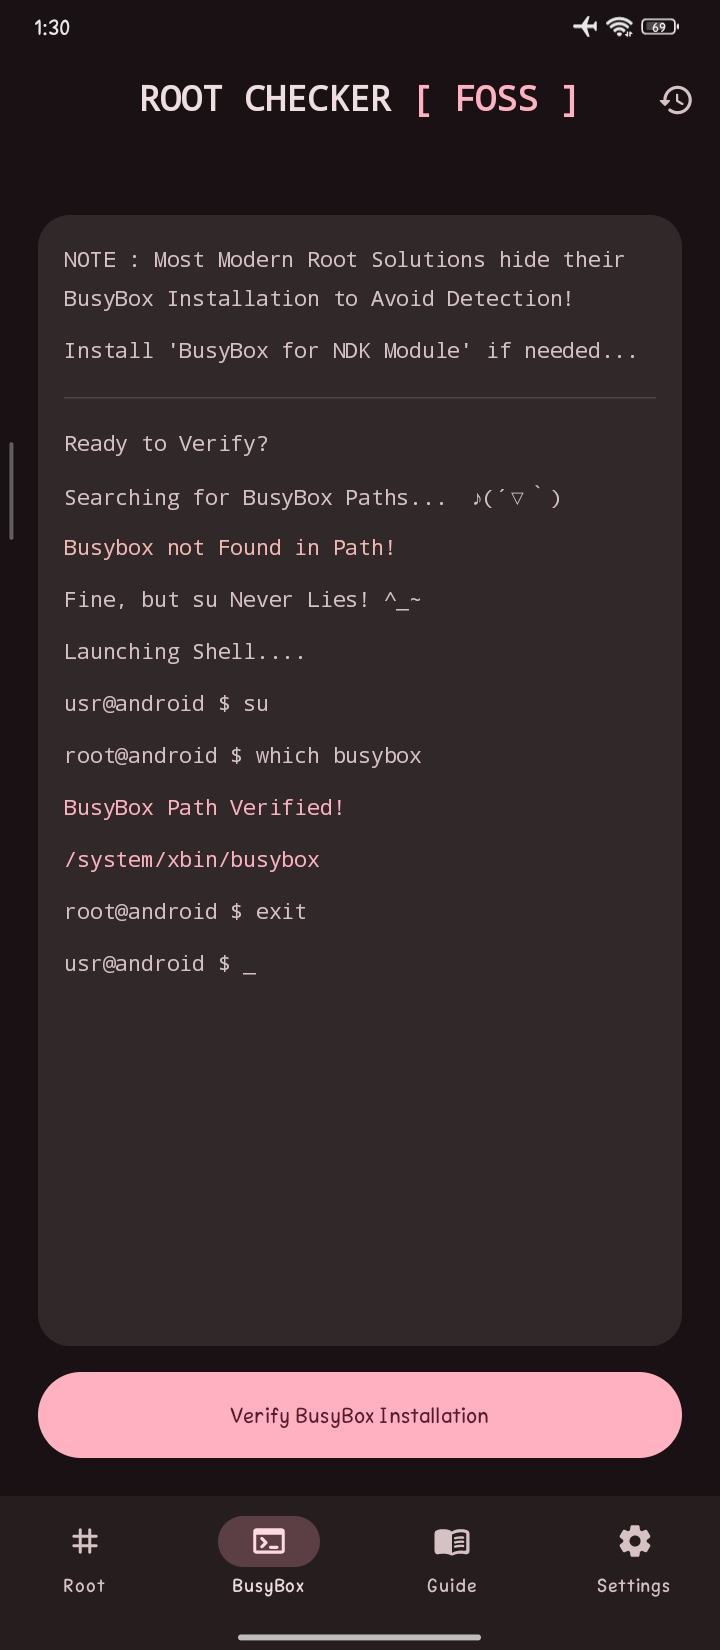
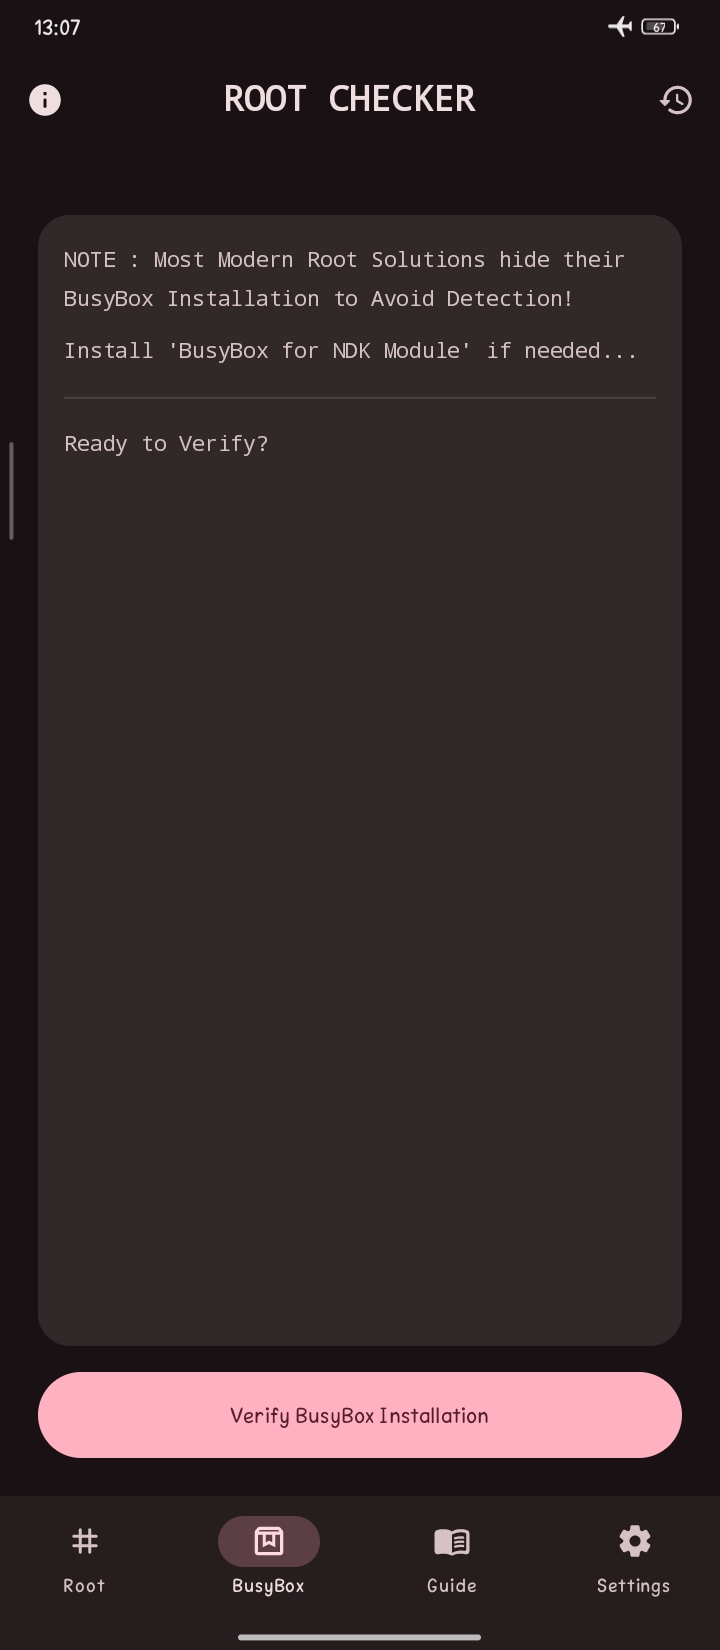
New Info Panel

diff --git a/app/src/main/java/foss/chillastro/root/checker/MainActivity.kt b/app/src/main/java/foss/chillastro/root/checker/MainActivity.kt
@@ -63,7 +63,9 @@ import androidx.compose.material.icons.automirrored.rounded.MenuBook
 import androidx.compose.material.icons.automirrored.rounded.OpenInNew
 import androidx.compose.material.icons.rounded.Animation
 import androidx.compose.material.icons.rounded.Brush
+import androidx.compose.material.icons.rounded.Cancel
 import androidx.compose.material.icons.rounded.Check
+import androidx.compose.material.icons.rounded.CheckCircle
 import androidx.compose.material.icons.rounded.Close
 import androidx.compose.material.icons.rounded.Code
 import androidx.compose.material.icons.rounded.Computer
@@ -76,8 +78,10 @@ import androidx.compose.material.icons.rounded.LockOpen
 import androidx.compose.material.icons.rounded.Memory
 import androidx.compose.material.icons.rounded.Palette
 import androidx.compose.material.icons.rounded.Refresh
+import androidx.compose.material.icons.rounded.ReportProblem
 import androidx.compose.material.icons.rounded.Settings
 import androidx.compose.material.icons.rounded.Tag
+import androidx.compose.material.icons.rounded.Verified
 import androidx.compose.material.icons.rounded.VisibilityOff
 import androidx.compose.material.icons.rounded.Warning
 import androidx.compose.material3.BasicAlertDialog
@@ -88,6 +92,7 @@ import androidx.compose.material3.CardDefaults
 import androidx.compose.material3.CenterAlignedTopAppBar
 import androidx.compose.material3.CircularProgressIndicator
 import androidx.compose.material3.DropdownMenuItem
+import androidx.compose.material3.ElevatedCard
 import androidx.compose.material3.ExperimentalMaterial3Api
 import androidx.compose.material3.ExposedDropdownMenuBox
 import androidx.compose.material3.ExposedDropdownMenuDefaults
@@ -233,6 +238,7 @@ fun CARootChecker( // CA stands for Chill-Astro who neither is an Astronaut nor 
 ) {
     var dest by rememberSaveable { mutableStateOf(AppDestinations.HOME) }
     var showHistorySheet by remember { mutableStateOf(false) }
+    var showInfoSheet by remember { mutableStateOf(false) }
     val context = LocalContext.current
     var logs by remember { mutableStateOf(getLogs(context)) }
     val refreshLogs = { logs = getLogs(context) }
@@ -243,13 +249,11 @@ fun CARootChecker( // CA stands for Chill-Astro who neither is an Astronaut nor 
             AppDestinations.entries.forEach { item ->
                 item(
                     icon = {
-                        // Logic to handle both Library Icons and your Custom Box XML
                         val iconPainter = when (val icon = item.icon) {
                             is ImageVector -> rememberVectorPainter(icon)
-                            is Int -> painterResource(id = icon) // This catches R.drawable.ic_box
+                            is Int -> painterResource(id = icon)
                             else -> error("Invalid icon type")
                         }
-
                         Icon(
                             painter = iconPainter,
                             contentDescription = item.label
@@ -268,10 +272,14 @@ fun CARootChecker( // CA stands for Chill-Astro who neither is an Astronaut nor 
                     title = {
                         Text(buildAnnotatedString {
                             append("ROOT CHECKER ")
-                            withStyle(SpanStyle(color = MaterialTheme.colorScheme.primary)) { append("[ FOSS ]") }
                         }, fontWeight = FontWeight.ExtraBold, fontFamily = FontFamily.Monospace)
                     },
-                    actions = {
+                    navigationIcon = { // Info button
+                        IconButton(onClick = { showInfoSheet = true }) {
+                            Icon(Icons.Rounded.Info, contentDescription = "Info") // Useful / Useless Facts About your Hardware
+                        }
+                    },
+                    actions = { // History button
                         IconButton(onClick = { showHistorySheet = true }) {
                             Icon(Icons.Rounded.History, contentDescription = "History") // Not the Boring History from School
                         }
@@ -318,7 +326,149 @@ fun CARootChecker( // CA stands for Chill-Astro who neither is an Astronaut nor 
                 HistoryContent(logs = logs, onClear = { clearLogs(context); refreshLogs() })
             }
         }
+        if (showInfoSheet) {
+            ModalBottomSheet(
+                onDismissRequest = { showInfoSheet = false },
+                shape = MaterialTheme.shapes.extraLarge,
+                containerColor = MaterialTheme.colorScheme.background
+            ) {
+                SystemInfo()
+            }
+        }
     }
+}
+@Composable
+fun SystemInfo() {
+    val scrollState = rememberScrollState()
+    val lspData = listOf(
+        "/data/adb/lspd", "/system/framework/lsposed.jar",
+        "/system/etc/init/hw/init.lsposed.rc", "/data/adb/lspd.db"
+    ).map { it to safeExists(it) }
+    val rootData = listOf(
+        "/system/bin/su", "/system/xbin/su", "/sbin/su", "/data/local/xbin/su",
+        "/sbin/su_magisk_arm64", "/system/xbin/magisk", "/data/adb/magisk"
+    ).map { it to safeExists(it) }
+    val busyBoxData = listOf(
+        "/system/bin/busybox", "/system/xbin/busybox", "/vendor/bin/busybox",
+        "/sbin/busybox", "/data/local/bin/busybox"
+    ).map { it to safeExists(it) }
+    val zygiskFound = try {
+        java.io.File("/proc/self/mounts").readText().contains("zygisk", ignoreCase = true)
+    } catch(_: Exception) { false }
+    val seLinux = try {
+        val p = getProp("selinux.get", "")
+        p.ifBlank {
+            if (java.io.File("/sys/fs/selinux/enforce")
+                    .exists()
+            ) "Enforcing" else "Enforcing (Protected)"
+        }
+    } catch(_: Exception) { "Enforcing" }
+    val debuggable = getProp("ro.debuggable", "0")
+    val secure = getProp("ro.secure", "1")
+    val isSafe = lspData.none { it.second } &&
+            rootData.none { it.second } &&
+            busyBoxData.none { it.second } &&
+            !zygiskFound &&
+            debuggable != "1" &&
+            secure != "0"
+    Column(
+        modifier = Modifier.fillMaxWidth().verticalScroll(scrollState).padding(bottom = 40.dp)
+    ) {
+        ElevatedCard(
+            modifier = Modifier.fillMaxWidth().padding(16.dp),
+            shape = RoundedCornerShape(24.dp),
+            colors = CardDefaults.elevatedCardColors(containerColor = MaterialTheme.colorScheme.primary)
+        ) {
+            Row(modifier = Modifier.padding(24.dp), verticalAlignment = Alignment.CenterVertically) {
+                Icon(Icons.Rounded.Info, null, tint = MaterialTheme.colorScheme.onPrimary, modifier = Modifier.size(28.dp))
+                Spacer(modifier = Modifier.width(16.dp))
+                Text(
+                    text = if(isSafe) "Device is Normal" else "Device is Modified",
+                    fontWeight = FontWeight.SemiBold,
+                    color = MaterialTheme.colorScheme.onPrimary
+                )
+            }
+        }
+        CategoryGroup("LSPosed Framework", lspData)
+        CategoryGroup("Root Binaries", rootData)
+        CategoryGroup("BusyBox Traces", busyBoxData)
+        SectionLabel("System Security")
+        StatRow(label = "SELinux Policy", value = seLinux, ok = !seLinux.contains("Disabled", true))
+        StatRow(label = "ro.debuggable", value = debuggable, ok = debuggable != "1")
+        StatRow(label = "ro.secure", value = secure, ok = secure != "0")
+        PathRow(path = "Zygisk Traces (Mounts)", found = zygiskFound)
+    }
+}
+fun getProp(key: String, default: String): String {
+    return try {
+        val c = Class.forName("android.os.SystemProperties")
+        val get = c.getMethod("get", String::class.java)
+        val result = get.invoke(c, key) as String
+        if (result.isNullOrBlank()) {
+            val process = Runtime.getRuntime().exec("getprop $key")
+            val output = process.inputStream.bufferedReader().use { it.readLine() }
+            if (output.isNullOrBlank()) "ACCESS DENIED" else output
+        } else result
+    } catch (_: Exception) {
+        "ACCESS DENIED"
+    }
+}
+fun safeExists(path: String): Boolean = try {
+    val file = java.io.File(path)
+    file.exists() && file.canRead()
+} catch (_: Exception) {
+    false
+}
+@Composable
+fun RowLayout(ok: Boolean, content: @Composable ColumnScope.() -> Unit) {
+    Surface(
+        modifier = Modifier.fillMaxWidth().padding(horizontal = 16.dp, vertical = 6.dp),
+        shape = RoundedCornerShape(12.dp),
+        color = MaterialTheme.colorScheme.surfaceVariant.copy(alpha = 0.25f),
+        border = BorderStroke(1.dp, MaterialTheme.colorScheme.outlineVariant.copy(alpha = 0.3f))
+    ) {
+        Row(modifier = Modifier.padding(18.dp), verticalAlignment = Alignment.CenterVertically) {
+            Icon(
+                imageVector = if (ok) Icons.Rounded.CheckCircle else Icons.Rounded.Cancel,
+                contentDescription = null,
+                tint = if (ok) MaterialTheme.colorScheme.primary else MaterialTheme.colorScheme.error,
+                modifier = Modifier.size(22.dp)
+            )
+            Spacer(modifier = Modifier.width(16.dp))
+            Column(modifier = Modifier.weight(1f)) { content() }
+        }
+    }
+}
+@Composable
+fun PathRow(path: String, found: Boolean) {
+    RowLayout(ok = !found) {
+        Text(
+            text = path,
+            style = MaterialTheme.typography.bodySmall,
+            fontFamily = FontFamily.Monospace,
+            modifier = Modifier.fillMaxWidth(),
+            softWrap = true
+        )
+    }
+}
+@Composable
+fun StatRow(label: String, value: String, ok: Boolean) {
+    RowLayout(ok = ok) {
+        Row(modifier = Modifier.fillMaxWidth(), verticalAlignment = Alignment.CenterVertically) {
+            Text(label, style = MaterialTheme.typography.bodySmall, fontWeight = FontWeight.Bold)
+            Spacer(modifier = Modifier.weight(1f))
+            Text(value, style = MaterialTheme.typography.bodySmall, fontFamily = FontFamily.Monospace, color = if(ok) Color.Unspecified else MaterialTheme.colorScheme.error)
+        }
+    }
+}
+@Composable
+fun SectionLabel(text: String) {
+    Text(text, style = MaterialTheme.typography.labelLarge, fontWeight = FontWeight.Black, modifier = Modifier.padding(horizontal = 24.dp, vertical = 14.dp), color = MaterialTheme.colorScheme.primary)
+}
+@Composable
+fun CategoryGroup(title: String, data: List<Pair<String, Boolean>>) {
+    SectionLabel(title)
+    data.forEach { (p, e) -> PathRow(path = p, found = e) }
 }
 // User INTERFACE (I hope it works like butter on Dumpster Fire Devices!)
 @Composable
@@ -425,7 +575,7 @@ fun RootChecker(reducedAnimations: Boolean, onCheckComplete: () -> Unit) {
                         delay(1000)
                         val paths = arrayOf(
                             // A Rabbit Hole of a HELL LOT OF PATHS! (Feels like I am a Security Official tbh.)
-                            // Magisk
+                            // Magisk & Stealth Modules
                             "/data/adb/magisk",
                             "/data/adb/magisk.db",
                             "/data/adb/magisk.img",
@@ -438,6 +588,10 @@ fun RootChecker(reducedAnimations: Boolean, onCheckComplete: () -> Unit) {
                             "/data/adb/post-fs-data.d",
                             "/data/adb/service.d",
                             "/data/adb/env",
+                            "/data/adb/shamiko",
+                            "/data/adb/tricky_store",
+                            "/data/adb/zygisk_next",
+                            "/data/adb/riru",
                             // KernelSU & APatch
                             "/data/adb/ksu",
                             "/data/adb/ksu/bin/su",
@@ -446,6 +600,7 @@ fun RootChecker(reducedAnimations: Boolean, onCheckComplete: () -> Unit) {
                             "/data/adb/apatch",
                             "/data/adb/apatch/bin/su",
                             "/data/adb/ap/bin/su",
+                            "/data/adb/ap/patch",
                             "/dev/apatch",
                             "/sys/kernel/debug/tracing/su",
                             // Others
@@ -466,11 +621,13 @@ fun RootChecker(reducedAnimations: Boolean, onCheckComplete: () -> Unit) {
                             "/system/app/SuperSU",
                             "/system/etc/init.d/99SuperSUDaemon",
                             "/dev/com.koushikdutta.superuser.daemon",
+                            "/data/data/com.noshufou.android.su",
                             "/system/xbin/busybox",
                             "/system/bin/busybox",
                             "/sbin/busybox",
                             "/vendor/bin/busybox",
-                            "/data/local/busybox"
+                            "/data/local/busybox",
+                            "/data/local/xbin/busybox"
                         )
                         val found = paths.any { try { Runtime.getRuntime().exec(arrayOf("ls", it)).waitFor() == 0 } catch (_: Exception) { false } }
                         withContext(Dispatchers.Main) {
@@ -909,7 +1066,7 @@ fun Settings(
                 @Suppress("DEPRECATION")
                 ctx.packageManager.getPackageInfo(ctx.packageName, 0).versionName
             }
-        } catch (_: Exception) { "36.23.1.1" }
+        } catch (_: Exception) { "36.23.2.0" }
     }
 
     // Version Comparison Logic
@@ -932,7 +1089,7 @@ fun Settings(
                 val url = "https://gist.githubusercontent.com/Chill-Astro/b8d2cb9ba2ea314babf65de1bed88662/raw/FRC-SU_V.txt"
                 val remoteVersion = URL(url).readText().trim()
                 withContext(Dispatchers.Main) {
-                    val current = appVersion ?: "36.23.1.1"
+                    val current = appVersion ?: "36.23.2.0"
                     if (isNewer(current, remoteVersion)) {
                         Toast.makeText(ctx, "$remoteVersion OUT NOW! 🎉", Toast.LENGTH_LONG).show()
                     } else if (isNewer(remoteVersion, current)) {
